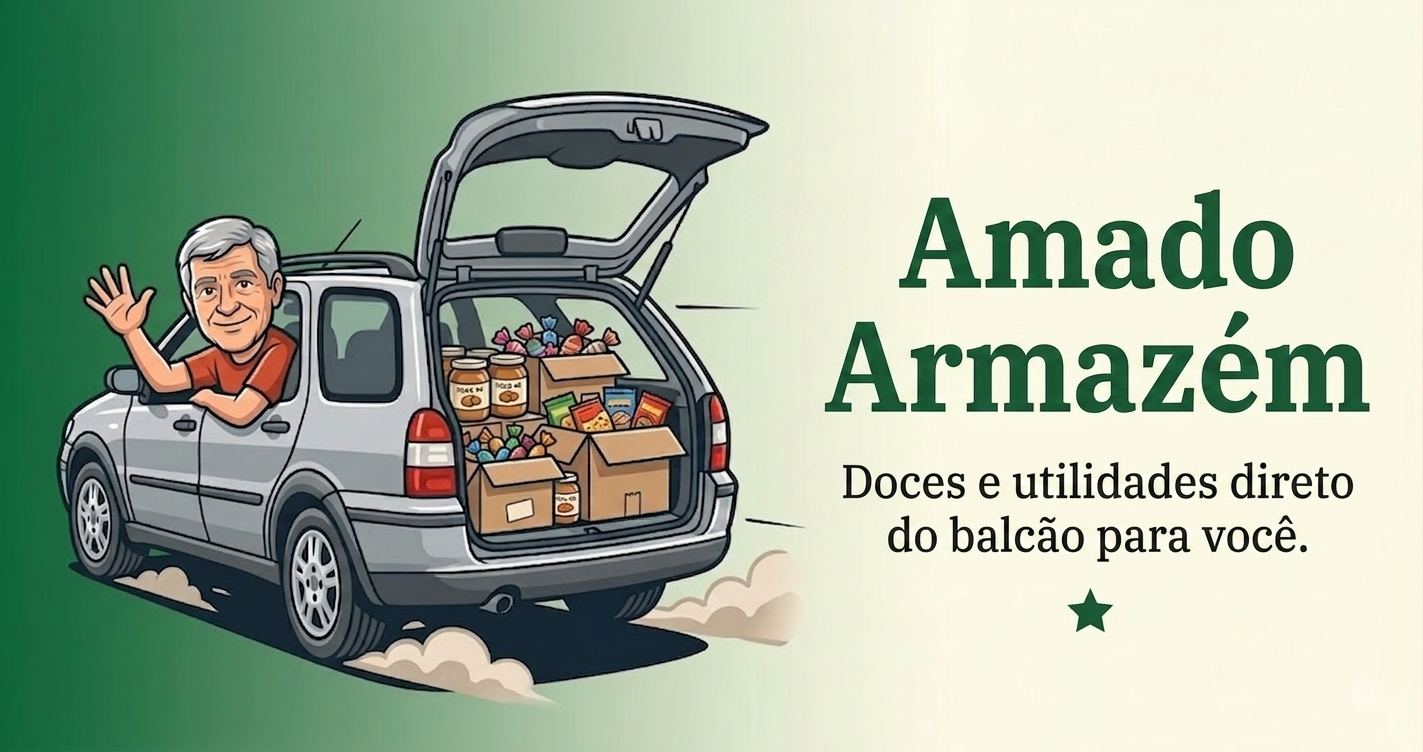
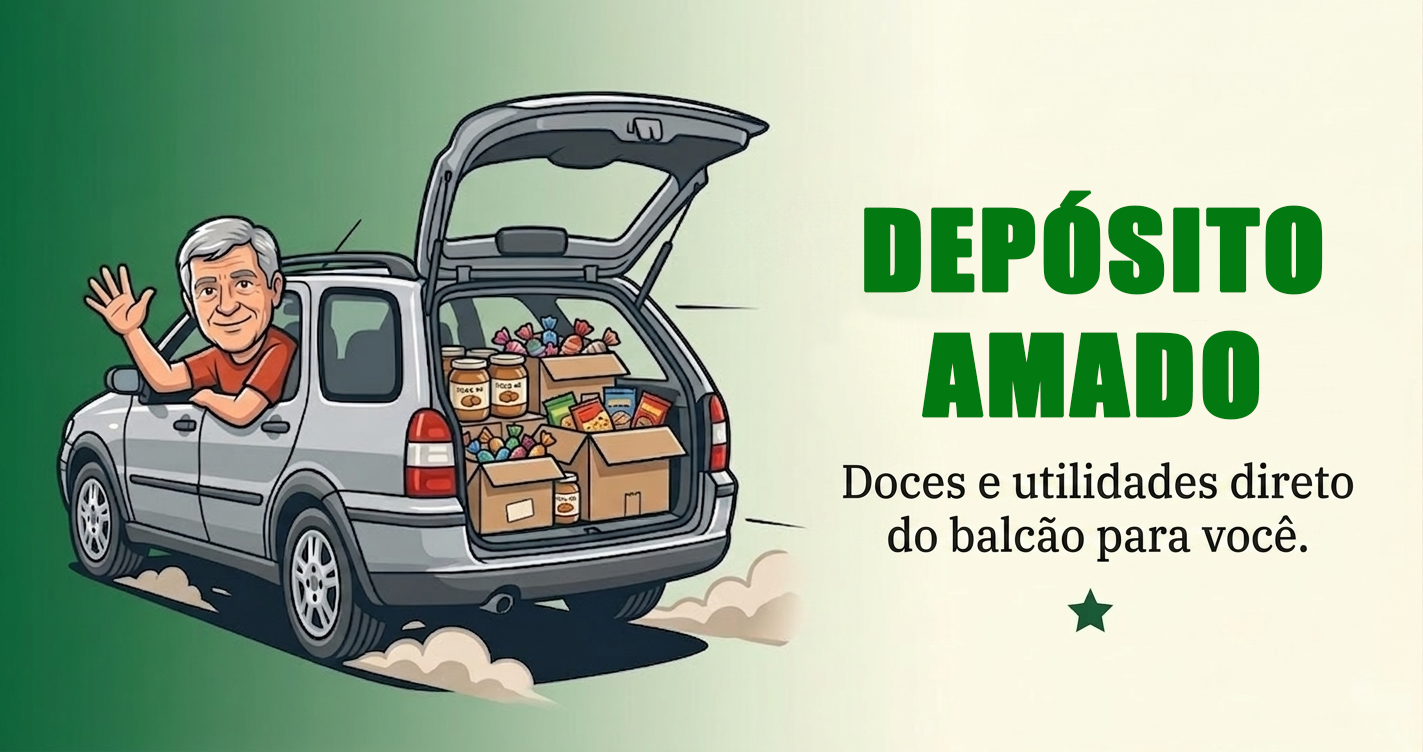
update nome

Changed region(s): [[0.5566, 0.2447, 0.9585, 0.5811]]

diff --git a/client/index.html b/client/index.html
@@ -6,10 +6,10 @@
       name="viewport"
       content="width=device-width, initial-scale=1.0, maximum-scale=5"
     />
-    <title>Amado Armazém — Doces e utilidades direto do balcão para você</title>
+    <title>Depósito Amado — Doces e utilidades direto do balcão para você</title>
     <meta
       name="description"
-      content="Amado Armazém: doces, balas, lanches e utilidades com entrega por região em Ribeirão Preto e encomendas para a região. Peça pelo site e pague por PIX, cartão ou dinheiro."
+      content="Depósito Amado: doces, balas, lanches e utilidades com entrega por região em Ribeirão Preto e encomendas para a região. Peça pelo site e pague por PIX, cartão ou dinheiro."
     />
     <meta name="theme-color" content="#2f7659" />
 
@@ -18,7 +18,7 @@
     <meta property="og:url" content="https://amado-armazem.vercel.app/" />
     <meta
       property="og:title"
-      content="Amado Armazém — Doces e utilidades direto do balcão para você"
+      content="Depósito Amado — Doces e utilidades direto do balcão para você"
     />
     <meta
       property="og:description"
@@ -34,7 +34,7 @@
 
     <!-- Twitter/X -->
     <meta name="twitter:card" content="summary_large_image" />
-    <meta name="twitter:title" content="Amado Armazém" />
+    <meta name="twitter:title" content="Depósito Amado" />
     <meta
       name="twitter:description"
       content="Doces, balas, lanches e utilidades — direto do balcão para sua casa."
@@ -55,7 +55,7 @@
     <div id="root"></div>
     <noscript>
       <div style="font-family: systemui, system-ui, sans-serif; padding: 40px; text-align: center">
-        <h1>Amado Armazém</h1>
+        <h1>Depósito Amado</h1>
         <p>Este site precisa de JavaScript habilitado para funcionar.</p>
       </div>
     </noscript>

diff --git a/client/src/pages/LegalPages.tsx b/client/src/pages/LegalPages.tsx
@@ -8,7 +8,7 @@ export function PrivacyPage() {
       <Header title="Política de Privacidade" onLogo={home} />
       <main className="page legal">
         <h1 style={{ fontFamily: "Fraunces", fontSize: 26, margin: "8px 0" }}>Política de Privacidade</h1>
-        <p>Amado Armazém · Ribeirão Preto/SP · atualizada em agosto de 2026.</p>
+        <p>Depósito Amado · Ribeirão Preto/SP · atualizada em agosto de 2026.</p>
         <h2>1. Quais dados coletamos</h2>
         <ul>
           <li>Nome, WhatsApp e endereço informados no pedido ou no cadastro;</li>
@@ -44,7 +44,7 @@ export function TermsPage() {
       <Header title="Termos de Uso" onLogo={home} />
       <main className="page legal">
         <h1 style={{ fontFamily: "Fraunces", fontSize: 26, margin: "8px 0" }}>Termos de Uso</h1>
-        <p>Amado Armazém · Ribeirão Preto/SP · atualizada em agosto de 2026.</p>
+        <p>Depósito Amado · Ribeirão Preto/SP · atualizada em agosto de 2026.</p>
         <h2>1. Como funciona a loja</h2>
         <p>O site é um catálogo com pedidos entregues por região em Ribeirão Preto/SP e encomendas programadas para Araraquara/SP. Preços e estoque podem mudar sem aviso; o valor válido é o exibido no momento do pedido.</p>
         <h2>2. Pedidos e pagamento</h2>

diff --git a/client/src/pages/Home.tsx b/client/src/pages/Home.tsx
@@ -176,7 +176,7 @@ function ProtectedEntry({ kind, onUnlock, onBack }: {
   return (
     <div className={`app-shell protected-entry ${manager ? "manager-entry" : "operator-entry"}`}>
       <div className="protected-mark">
-        <img src={IMG.logo} alt="Amado Armazém" style={{ ...LOGO_STYLE, height: 56, maxWidth: 86 }} />
+        <img src={IMG.logo} alt="Depósito Amado" style={{ ...LOGO_STYLE, height: 56, maxWidth: 86 }} />
         <span>{manager ? "central do gestor" : "operação da loja"}</span>
       </div>
       <main className="page">
@@ -184,7 +184,7 @@ function ProtectedEntry({ kind, onUnlock, onBack }: {
         <h1>{manager ? "Olá, gestor." : "Olá, Valdir e família."}</h1>
         <p>
           {manager
-            ? "Entre para acompanhar o movimento completo da loja Amado Armazém."
+            ? "Entre para acompanhar o movimento completo da loja Depósito Amado."
             : "Este espaço reúne os pedidos, produtos e entregas do dia."}
         </p>
         <label>

diff --git a/client/public/offline.html b/client/public/offline.html
@@ -3,7 +3,7 @@
 <head>
   <meta charset="UTF-8" />
   <meta name="viewport" content="width=device-width, initial-scale=1.0" />
-  <title>Amado Armazém — Offline</title>
+  <title>Depósito Amado — Offline</title>
   <meta name="theme-color" content="#2f7659" />
   <style>
     *{box-sizing:border-box;margin:0;padding:0}
@@ -24,7 +24,7 @@
       </svg>
     </div>
     <h1>Sem conexão no momento</h1>
-    <p>Parece que você está offline. Quando a internet voltar, é só recarregar para continuar comprando na loja Amado Armazém.</p>
+    <p>Parece que você está offline. Quando a internet voltar, é só recarregar para continuar comprando na loja Depósito Amado.</p>
     <button onclick="location.reload()">Tentar novamente</button>
   </div>
 </body>

diff --git a/client/src/pages/ClientApp.tsx b/client/src/pages/ClientApp.tsx
@@ -422,7 +422,7 @@ export default function ClientApp() {
         <img
           className="hero-banner"
           src="/og-image.png"
-          alt="Amado Armazém — doces, balas e utilidades do balcão para sua casa"
+          alt="Depósito Amado — doces, balas e utilidades do balcão para sua casa"
         />
       </header>
       <main className="page catalog-page" id="main-content">

diff --git a/client/src/ui/components.tsx b/client/src/ui/components.tsx
@@ -10,7 +10,7 @@ export function Logo({ small = false, onClick }: { small?: boolean; onClick?: ()
     <>
       <img
         src={IMG.logo}
-        alt="Amado Armazém"
+        alt="Depósito Amado"
         loading="eager"
         decoding="async"
         style={small ? { ...LOGO_STYLE, height: 46, maxWidth: 74 } : { ...LOGO_STYLE, height: 58, maxWidth: 92 }}

diff --git a/client/src/pages/ManagerApp.tsx b/client/src/pages/ManagerApp.tsx
@@ -1102,7 +1102,7 @@ export default function ManagerApp({
 
         {/* Relatório imprimível (Exportar PDF) */}
         <div id="print-report">
-          <h1>Amado Armazém — Relatório</h1>
+          <h1>Depósito Amado — Relatório</h1>
           <p>
             Gerado em {new Date().toLocaleDateString("pt-BR")} · todos os
             pedidos

diff --git a/client/public/sw.js b/client/public/sw.js
@@ -1,4 +1,4 @@
-/* Amado Armazém — service worker v3 (network-first + offline page). */
+/* Depósito Amado — service worker v3 (network-first + offline page). */
 const CACHE = "pdv-v3";
 const CORE = ["/", "/manifest.json", "/logo-valdir.png", "/favicon.svg", "/offline.html"];
 

diff --git a/ideas.md b/ideas.md
@@ -1,7 +1,7 @@
-# Direção visual — Amado Armazém
+# Direção visual — Depósito Amado
 
 ## Identidade oficial
-- Nome oficial: **Amado Armazém** (doces, balas, lanches e pequenas utilidades).
+- Nome oficial: **Depósito Amado** (doces, balas, lanches e pequenas utilidades).
 - Símbolo/favicon: arte do Valdir no carro (`client/public/logo-valdir.png`).
 - Wordmark: “Produtos do” pequeno + “Valdir” em destaque (Fraunces).
 - Não usar: “mercadinho”, “mercearia de bairro”, “Quitanda Solar”.
